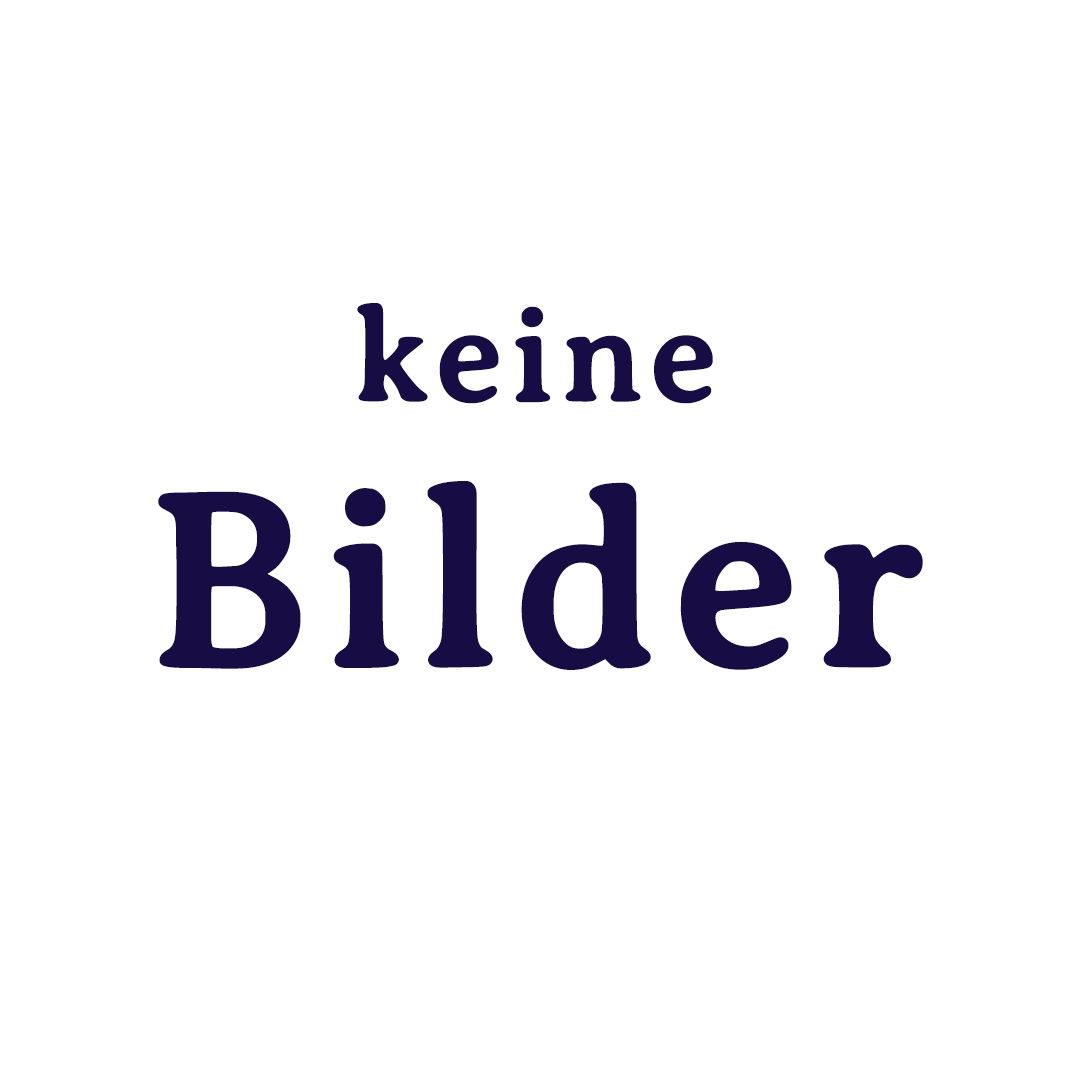
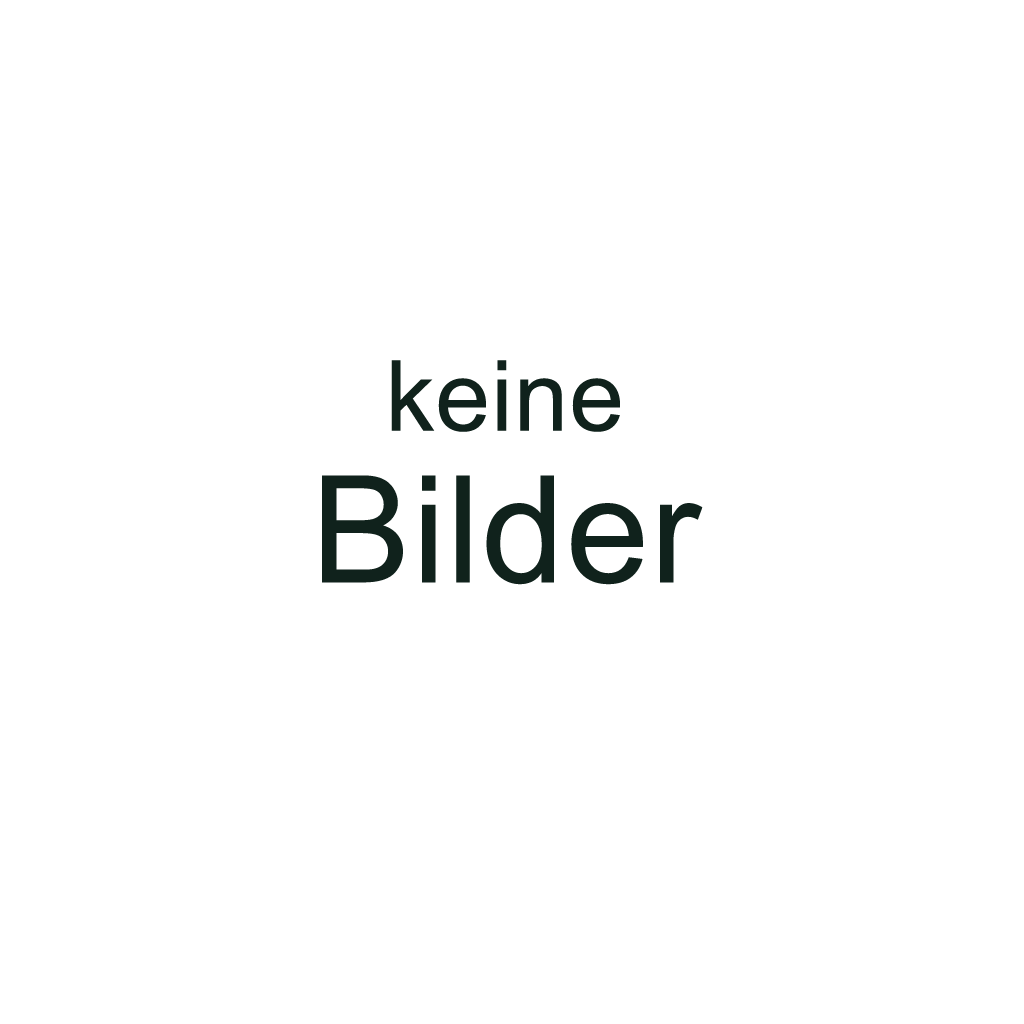
test-feedbackloop changes

Changed region(s): [[0.3125, 0.2812, 0.875, 0.625], [0.125, 0.4375, 0.2812, 0.625]]

diff --git a/002_flutter/lib/Features/BikeDetail/ui/page_bike_detail.dart b/002_flutter/lib/Features/BikeDetail/ui/page_bike_detail.dart
@@ -1,5 +1,3 @@
-import 'dart:io';
-
 import 'package:flutter/material.dart';
 import 'package:STOBI/Features/BikeDetail/ui/config/textStyles.dart';
 import 'package:STOBI/Features/BikeList/state/sm_user_bike_list.dart';
@@ -131,7 +129,7 @@ class _PageBikeDetailState extends State<PageBikeDetail> {
                                         color: Colors.red)),
                                 RaisedButton(
                                   onPressed: gefundenMelden,
-                                  child: Text("Fahrrad gefunden"),
+                                  child: Text("Bike gefunden", style: TextStyle(fontSize: 20),),
                                 )
                               ],
                             );
@@ -144,7 +142,7 @@ class _PageBikeDetailState extends State<PageBikeDetail> {
                                         color: Colors.green)),
                                 RaisedButton(
                                   onPressed: verlorenMelden,
-                                  child: Text("Fahrrad verloren"),
+                                  child: Text("Bike verloren", style: TextStyle(fontSize: 20),),
                                 )
                               ],
                             );

diff --git a/002_flutter/lib/Features/Login/ui/widgets/loading_widget.dart b/002_flutter/lib/Features/Login/ui/widgets/loading_widget.dart
@@ -1,7 +1,6 @@
 import 'package:flutter/material.dart';
 
 class LoadingWidget extends StatefulWidget {
-
   final String loadingText;
 
   LoadingWidget({Key key, @required this.loadingText}) : super(key: key);
@@ -13,14 +12,20 @@ class _LoadingWidgetState extends State<LoadingWidget> {
   @override
   Widget build(BuildContext context) {
     return Center(
-                child: Column(
-                  mainAxisAlignment: MainAxisAlignment.center,
-                  children: <Widget>[
-                    Text("Bitte Warten"),
-                    CircularProgressIndicator(),
-                    Text(widget.loadingText),
-                  ],
-                ),
-              );
+      child: Column(
+        mainAxisAlignment: MainAxisAlignment.center,
+        children: <Widget>[
+          Text("Bitte Warten"),
+          SizedBox(
+            height: 10,
+          ),
+          CircularProgressIndicator(valueColor: AlwaysStoppedAnimation<Color>(Colors.black38)),
+          SizedBox(
+            height: 10,
+          ),
+          Text(widget.loadingText),
+        ],
+      ),
+    );
   }
 }

diff --git a/002_flutter/lib/Features/NavBar/ui/widgets/navigation_settings.dart b/002_flutter/lib/Features/NavBar/ui/widgets/navigation_settings.dart
@@ -6,17 +6,32 @@ class NavSettings extends StatefulWidget {
 }
 
 class _NavSettingsState extends State<NavSettings> {
+  void optionButtonClicked() {
+    Scaffold.of(context).showSnackBar(SnackBar(
+      content: Text("Button ist noch nicht implementiert"),
+    ));
+  }
+
   @override
   Widget build(BuildContext context) {
     return Padding(
-      padding: const EdgeInsets.only(top: 18.0, right: 30.0),
+      padding: const EdgeInsets.only(top: 0, right: 0),
       child: Align(
         alignment: Alignment.topRight,
-            child: Container(
-          width: 50,
-          height: 30,
-          // color: Colors.red,
-          child: Icon(Icons.menu),
+        child: GestureDetector(
+          onTap: optionButtonClicked,
+          child: Container(
+            width: 100,
+            height: 65,
+            color: Colors.transparent,
+            child: Transform.translate(
+              offset: const Offset(-4, 6),
+              child: Icon(
+                Icons.menu,
+                size: 30,
+              ),
+            ),
+          ),
         ),
       ),
     );

diff --git a/002_flutter/lib/Features/NavBar/ui/bottom_bar.dart b/002_flutter/lib/Features/NavBar/ui/bottom_bar.dart
@@ -1,7 +1,5 @@
 import 'package:flutter/material.dart';
 import 'package:STOBI/Features/NavBar/assets/resources.dart';
-import 'package:STOBI/Features/NavBar/state/smanager_navbar.dart';
-import 'package:provider/provider.dart';
 
 class BottomNavBar extends StatefulWidget {
   const BottomNavBar({Key key}) : super(key: key);
@@ -19,14 +17,16 @@ class _BottomNavBarState extends State<BottomNavBar> {
       tag: "bottomBar",
       child: Container(
         width: double.infinity,
-        height: 60,
+        height: 40,
         child: Row(
           children: <Widget>[
             Expanded(
               flex: 1,
               child: GestureDetector(
                 onTap: backGotClicked,
-                child: Container(child: Image.asset(back_button_path)),
+                child: Transform.translate(
+                    offset: const Offset(0, -9),
+                    child: Container(child: Image.asset(back_button_path))),
               ),
             ),
             Expanded(

diff --git a/002_flutter/lib/Features/NavBar/ui/widgets/stobi_logo.dart b/002_flutter/lib/Features/NavBar/ui/widgets/stobi_logo.dart
@@ -8,19 +8,19 @@ class StobiLogo extends StatelessWidget {
       crossAxisAlignment: CrossAxisAlignment.start,
       children: <Widget>[
         Padding(
-          padding: const EdgeInsets.only(left: 18.0, top: 10.0),
+          padding: const EdgeInsets.only(left: 40.0, top: 10.0),
           child: Align(
               alignment: Alignment.centerLeft,
               child: Container(
-                width: 130.0,
-                height: 60.0,
+                // width: 130.0,
+                height: 75.0,
                 child: Image.asset(
                   stobi_logo_path,
                 ),
               )),
         ),
         Transform.translate(
-            offset: const Offset(0.0, -25.0),
+            offset: const Offset(0.0, -29.0),
             child: Divider(
               thickness: 1.15,
               color: Colors.black.withAlpha(200),

diff --git a/002_flutter/lib/Features/NavBar/ui/nav_bar.dart b/002_flutter/lib/Features/NavBar/ui/nav_bar.dart
@@ -68,6 +68,7 @@ class _NavBarState extends State<NavBar> {
           padding: const EdgeInsets.only(top: 75.0),
           child: Column(
             children: <Widget>[
+              SizedBox(height: 13,),
               Expanded(child: widget.child),
               if (widget.bottomBar != null)
                 Consumer<SmNavbar>(
@@ -75,8 +76,9 @@ class _NavBarState extends State<NavBar> {
                     if (s.hiddenBottomBar) return Container();
 
                     return Align(
-                        alignment: Alignment.bottomCenter,
-                        child: widget.bottomBar);
+                      alignment: Alignment.bottomCenter,
+                      child: widget.bottomBar,
+                    );
                   },
                 )
             ],

diff --git a/002_flutter/lib/Features/NavBar/ui/widgets/bike_transfer_export_button.dart b/002_flutter/lib/Features/NavBar/ui/widgets/bike_transfer_export_button.dart
@@ -24,13 +24,13 @@ class _BikeTransferExportButtonState extends State<BikeTransferExportButton> {
           onTap: _transferBikeClicked,
           child: Container(
             width: 70,
-            height: 55,
+            height: 65,
             color: Colors.transparent,
             child: Transform.translate(
-              offset: const Offset(12, 6),
+              offset: const Offset(7, 6),
               child: Icon(
                 Icons.swap_horiz,
-                size: 28,
+                size: 35,
               ),
             ),
             // color: Colors.red,

diff --git a/002_flutter/lib/Features/NavBar/ui/widgets/bike_transfer_import_button.dart b/002_flutter/lib/Features/NavBar/ui/widgets/bike_transfer_import_button.dart
@@ -23,13 +23,13 @@ class _BikeTransferImportButtonState extends State<BikeTransferImportButton> {
           onTap: _transferBikeClicked,
           child: Container(
             width: 70,
-            height: 55,
+            height: 65,
             color: Colors.transparent,
             child: Transform.translate(
-              offset: const Offset(12, 6),
+              offset: const Offset(7, 6),
               child: Icon(
                 Icons.swap_horiz,
-                size: 28,
+                size: 35,
               ),
             ),
             // color: Colors.red,

diff --git a/002_flutter/lib/Features/NavBar/ui/widgets/add_element.dart b/002_flutter/lib/Features/NavBar/ui/widgets/add_element.dart
@@ -24,9 +24,8 @@ class _AddElementState extends State<AddElement> {
           child: Container(
             color: Colors.transparent,
             width: 70,
-            height: 55,
-            // color: Colors.red,
-            child: Transform.translate(offset: const Offset(-15, 5), child: Icon(Icons.add)),
+            height: 63,
+            child: Transform.translate(offset: const Offset(-15, 5), child: Icon(Icons.add, size: 35,)),
           ),
         ),
       ),

diff --git a/Readme.md b/Readme.md
@@ -18,7 +18,7 @@
 * if bike is marked as Lost it should be visible on Bike List Page
 * Owned Bikes Should be Editable after Creation
 * Menübutton needs Function
-* Webung/Ads provisorisch
+* Werbung/Ads provisorisch
 
 ## Known Bugs
 * bei page wechsel werden die page tabs kurz rot (unpleasant)
@@ -26,11 +26,13 @@
 * transitions to Pages left from current Page dont feel right
 
 ## Punkte von Tobi
-* Top Bar vergrößern
-* Bottom Bar verkleinern
-* Bike verloren/gefunden -> Wording anpassen und vergrößern
-* Menübutton needs Function
+* Loading Text to close to Circle (done)
+* Top Bar vergrößern (done)
+* Bottom Bar verkleinern (done)
+* Bike verloren/gefunden -> Wording anpassen und vergrößern (done)
+* Menübutton needs Function (NotImplementedMessage)
 * keine Bilder Picture -> transparent Background and Schriftart ändern
+* Werbung/Ads provisorisch
 
 ## Bei Release auf Testflight kommt folgende Fehlermeldung
 ITMS-90809: Deprecated API Usage - Apple will no longer accept submissions of new apps that use UIWebView as of April 30, 2020 and app updates that use UIWebView as of December 2020. Instead, use WKWebView for improved security and reliability. Learn more (https://developer.apple.com/documentation/uikit/uiwebview). 
